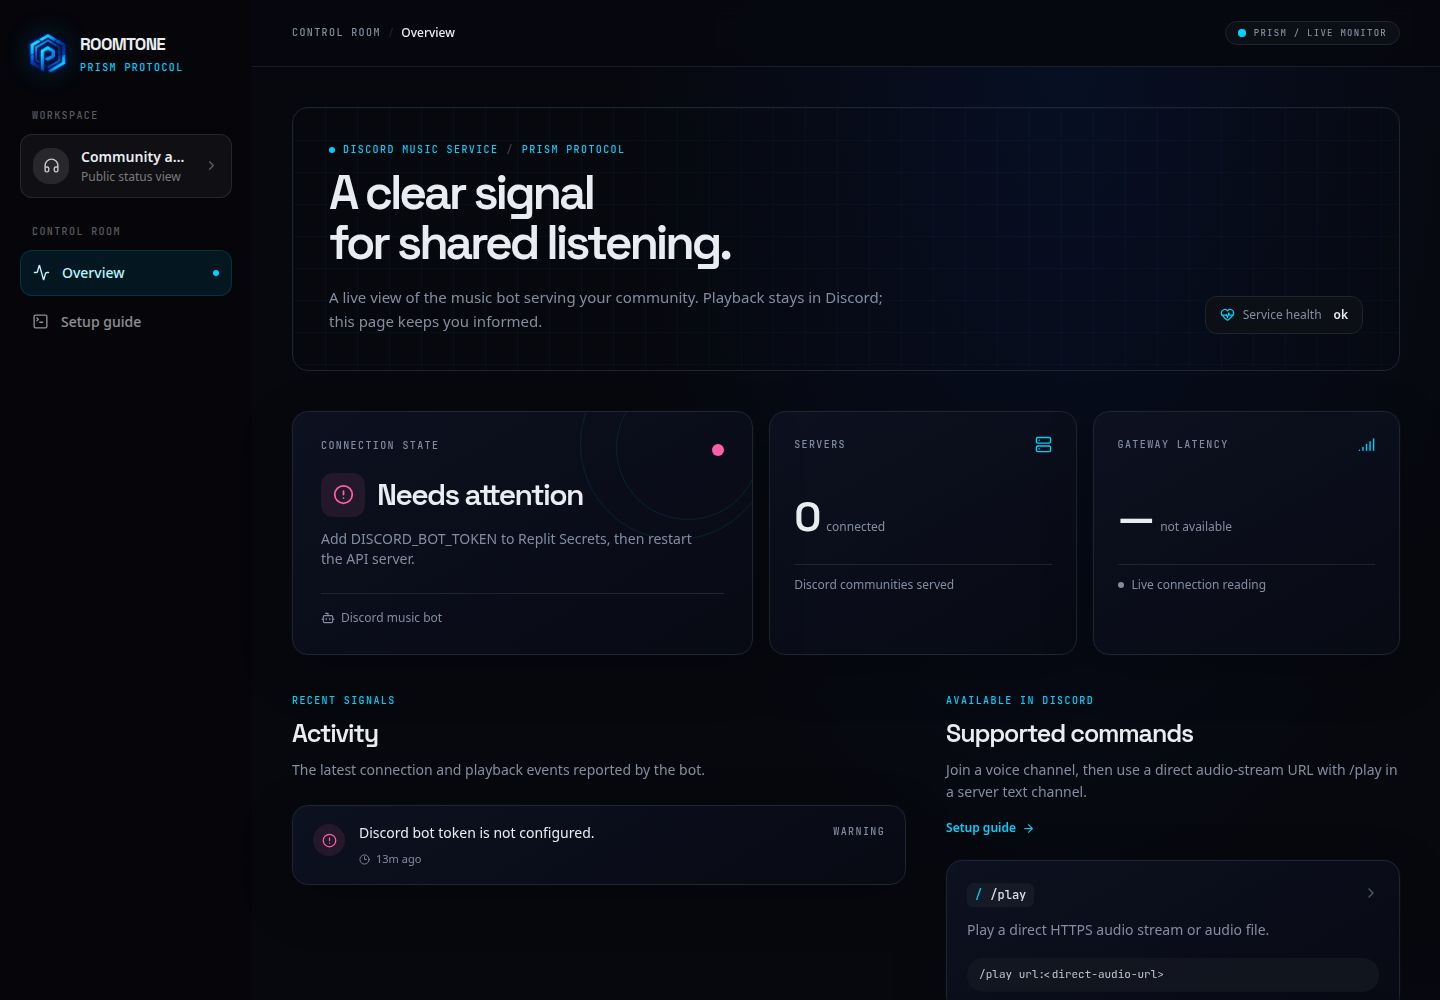
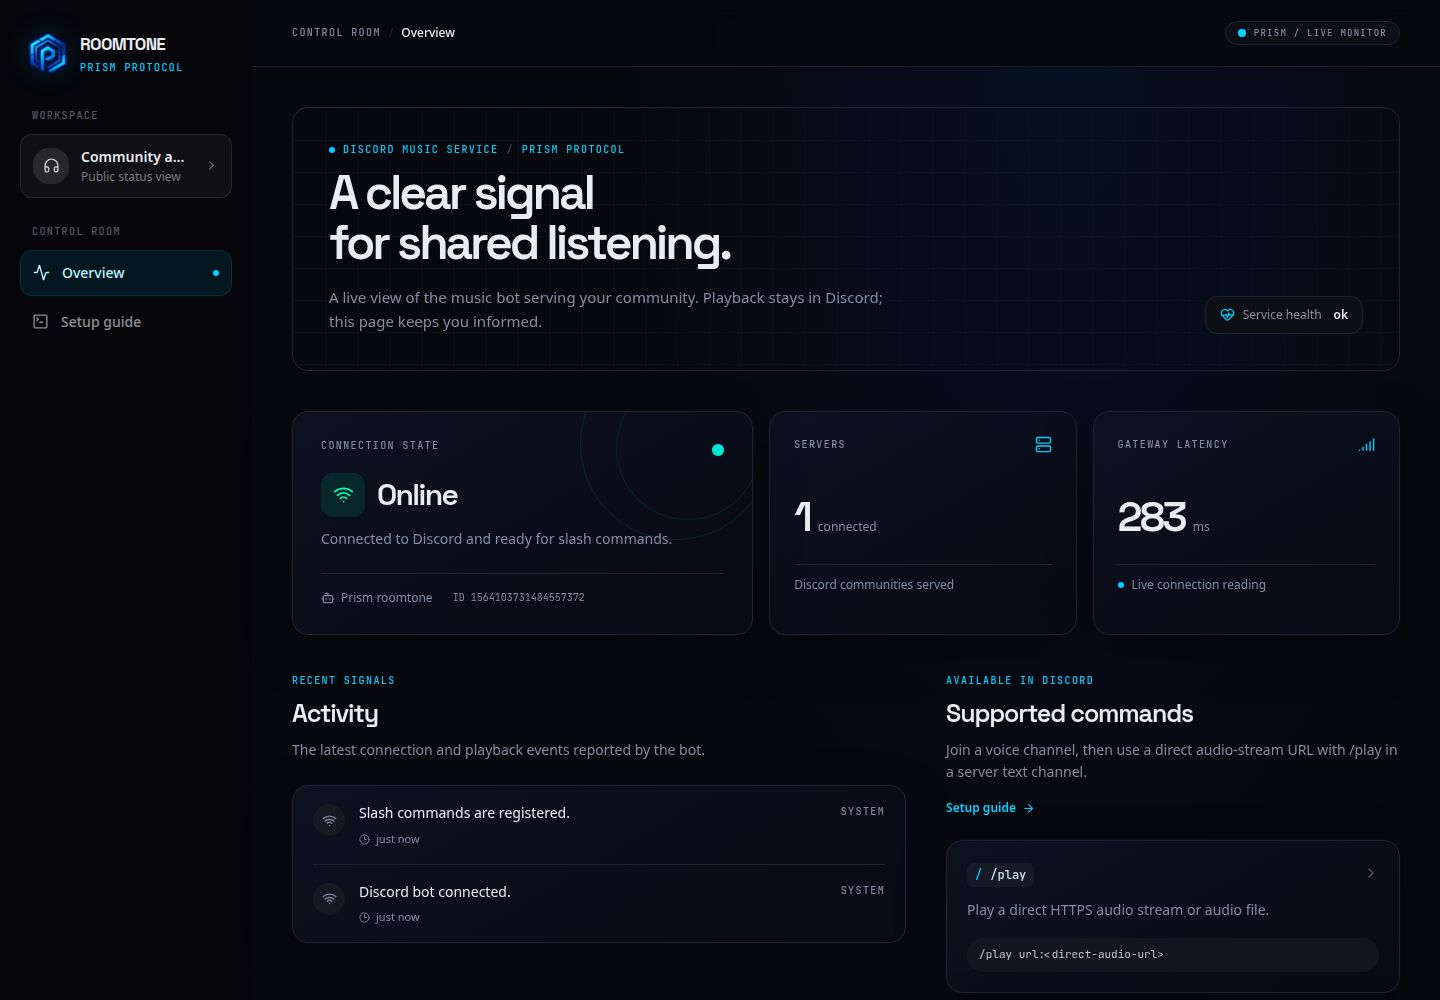
Refresh connected dashboard preview

diff --git a/README.md b/README.md
@@ -20,7 +20,7 @@ The dashboard is available in this project's Replit preview. A public deployment
   <img src="artifacts/discord-music/public/dashboard-preview.jpg" width="100%" alt="Roomtone dashboard preview" />
 </p>
 
-The preview shown above was captured before a Discord bot token was configured, so it displays the setup-required state.
+The preview shows the bot connected at capture time. The dashboard reads current connection status and activity from the API.
 
 ## Features
 
